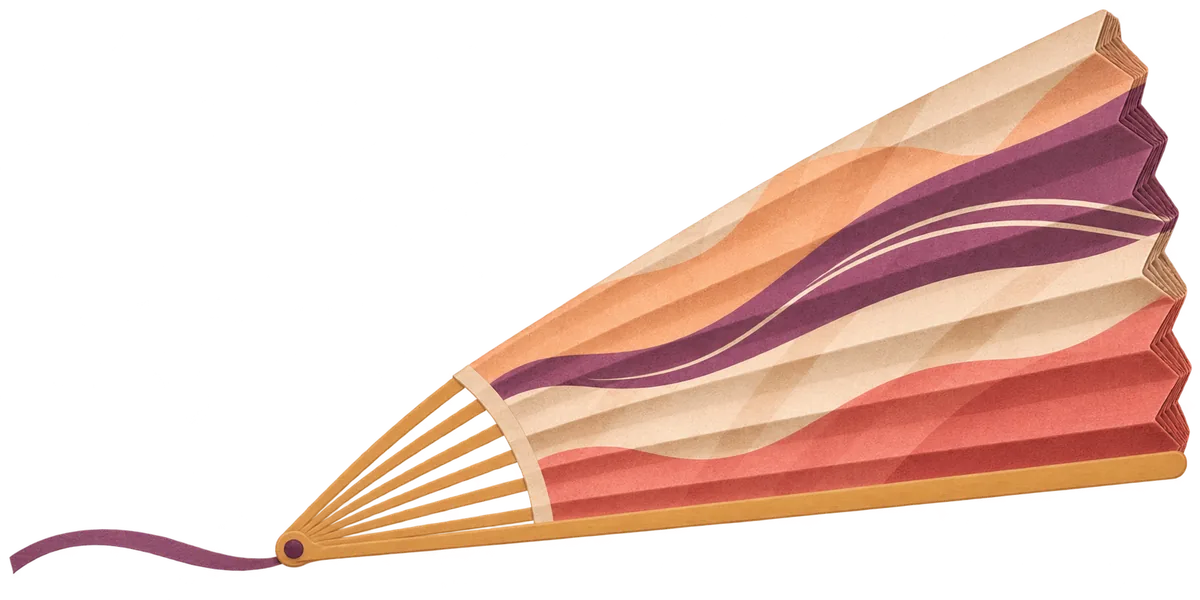
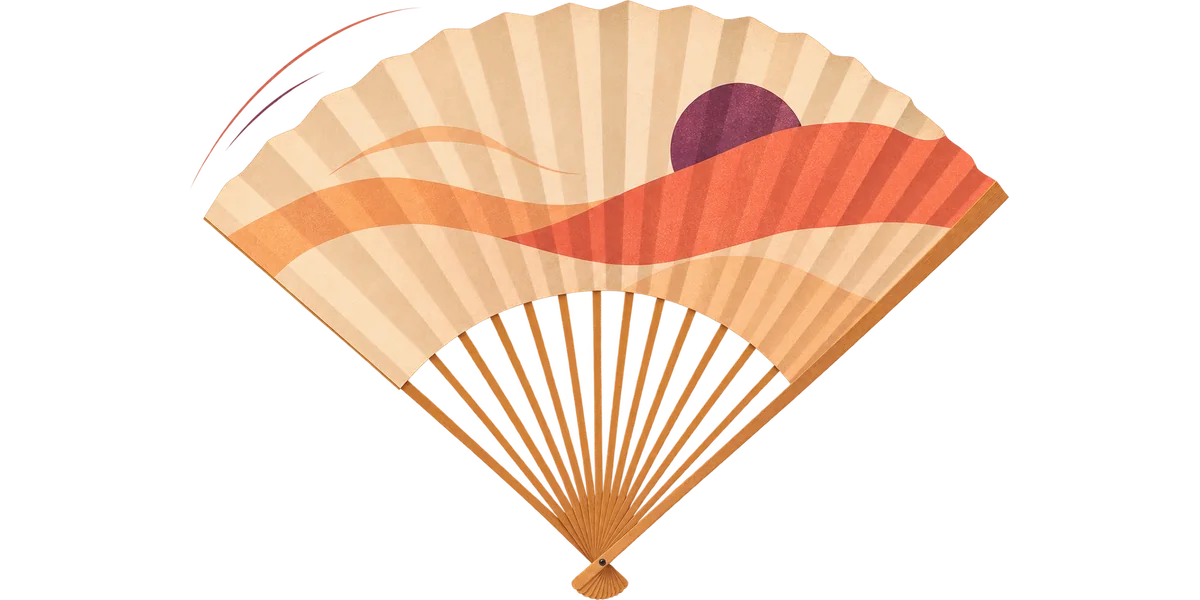
style(home): 对照藏扇实物重绘妙压半开折扇

diff --git a/docs/dev-log/v1.0-dev.15.md b/docs/dev-log/v1.0-dev.15.md
@@ -2,7 +2,7 @@
 
 ## 当前摘要
 
-- [首页妙替与妙压卡面重绘](#首页妙替与妙压卡面重绘)保留已认可的妙替纸蝶；妙压以杏桃纸色与梅紫扇纹重绘收扇，待用户确认与整组卡面的协调度。
+- [首页妙替与妙压卡面重绘](#首页妙替与妙压卡面重绘)保留已认可的妙替纸蝶；妙压依故宫实物照片重画半开扇的正面轮廓与扇头，待用户确认观感。
 
 - 星潮任务分支 `codex/github-tech-radar` 源自本机 dev `c06ed41`，包含 PR #5 合入记录 `c7d391f`。用户批准复验通过后经 PR 合入 GitHub `dev`，见[合入前复验](#合入-dev-前复验)。
 - [阶段方案](../plans/github-tech-radar.md)已归档。用户确认日榜、中文 AI 解读、历史阅读、公开只读、仅屋主更新、月预算人民币 10 元以内，以及 S1～S4 全部推荐项；自动与手动复用流程，后端先行。
@@ -48,6 +48,10 @@
 **11 月 23 日收扇配色与构图。** 用户指出朱红扇的画风、色彩与卡面脱节。本轮用首页三卡实景作绘画参考，另用上一稿校正扇骨和纸褶方向。杏桃、米白和珊瑚色折面衬蜜桃底，梅紫曲纹与细线呼应纸蝶和纸船，扇绳从扇钉向左引出。保留单轴竹骨、小开角与叠起的扇缘。仅替换妙压透明 WebP（1200×600，约 85 KiB）。
 
 本轮 `npm run build`（含类型检查）与 `npm run lint:check` 通过。Chrome 在 5198 检查 320、375、760、761、999、1000、1280、1440px，插画避开题签和底部入口，页面无横向溢出；已目视核对桌面三卡和手机截图。妙替键盘入口、妙压鼠标入口、后退、分类及搜索通过。整组画风与收拢感待用户看稿。
+
+**11 月 23 日对照实物重绘。** 上一稿横卧的扇形与扇钉下的骨尾难以辨认。本轮查阅[故宫博物院藏扇图录，第 17、18 页](https://www.dpm.org.cn/Uploads/File/2019/08/28/u5d663cde443b7.pdf#page=17)及[文物修复论文的折扇结构图](https://cool.culturalheritage.org/coolaic/sg/bpg/annual/v05/bpga05-04.pdf#page=1)，用实物正面照片作形体参考。新版以放射状竹骨托起弧形折纸，露出扇钉下的骨尾；杏桃纸面、珊瑚色山线和梅紫落日取色于首页画廊。仅替换妙压透明 WebP，仍为 1200×600。
+
+本轮 `npm run build`、`npm run lint:check` 通过。Chrome 在 5198 检查 320、375、760、761、999、1000、1280、1440px，无横向溢出，题签与入口无重叠。桌面画廊与手机卡面已目视核对，妙替键盘入口、妙压鼠标入口、后退、分类和搜索通过。造型与收拢感待用户评看。
 
 ## 合入 dev 前复验
 

diff --git a/DEV_LOG.md b/DEV_LOG.md
@@ -2,7 +2,7 @@
 
 更新时间：2026-11-23（Asia/Shanghai）。**v1.0 开发中。**
 
-- 首页：[妙替纸蝶与妙压收扇](docs/dev-log/v1.0-dev.15.md#首页妙替与妙压卡面重绘)。妙替取景已确认；妙压收扇已按纸蝶、纸船与蜜桃底重绘配色和扇纹，待用户查看整组效果。
+- 首页：[妙替纸蝶与妙压收扇](docs/dev-log/v1.0-dev.15.md#首页妙替与妙压卡面重绘)。妙替取景已确认；妙压已参照故宫藏扇实物改为正面半开构图，待用户查看卡面。
 - 星潮：[星潮采集、生成与发布](docs/dev-log/v1.0-dev.15.md#工程收口与文章交接)完成本机阶段核对。11 月 21 日常规采集截图已有本期新稿，读者反馈正文难懂。[文章结构专项](docs/plans/startide-insight-quality.md#文章结构专项候选)留给后续独立分支。11 月 20 日下午断源的首个故障仍缺现场证据。
 - [前端技能](docs/operations/ui-ux-skill.md)保留正式版 v2.15.0。WSL 服务已恢复，原 Redis 启动检查通过，Docker 作为备用入口。
 - 集成：星潮通过[合入前复验](docs/dev-log/v1.0-dev.15.md#合入-dev-前复验)，用户授权任务分支经 PR 进入 GitHub `dev`。后续文章专项以集成后的 `dev` 为基线。
